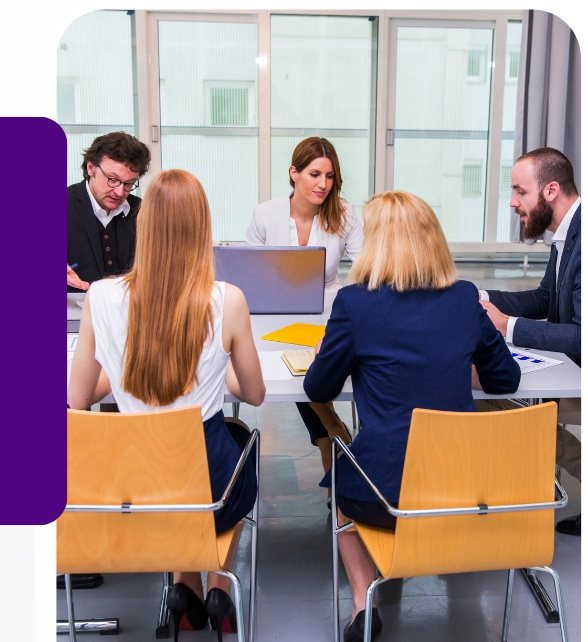
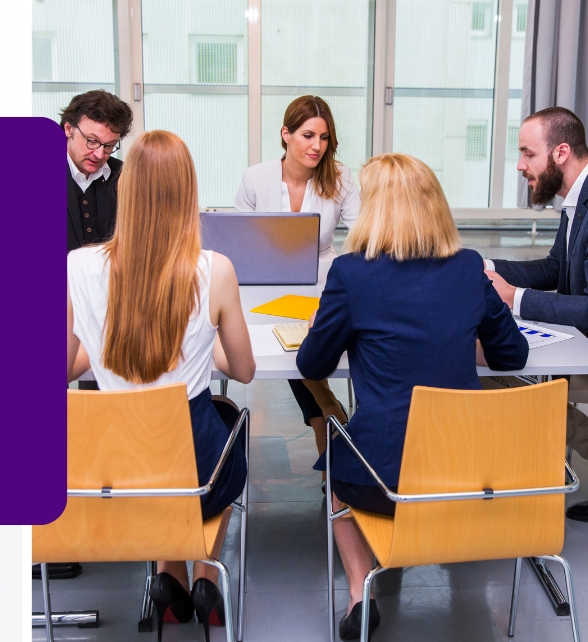
picture

diff --git a/asset_loan.html b/asset_loan.html
@@ -236,7 +236,7 @@
           <div class="row align-items-center">
               <div class="col-lg-6 col-md-6">
                   <div class="about_img wow fadeInLeft" data-wow-duration="1s" data-wow-delay=".3s">
-                      <img src="img/about/about.png" alt="about us">
+                      <img src="img/about/asset.jpg" alt="about us">
                   </div>
               </div>
               <div class="col-lg-6 col-md-6">
